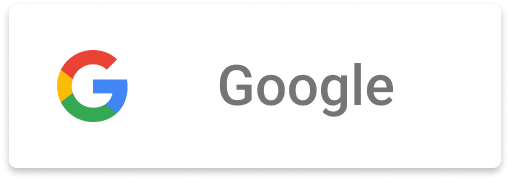
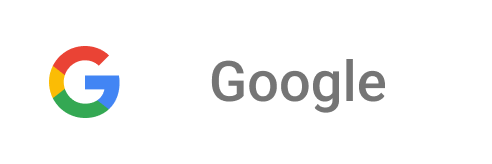
Add login with Microsoft button

Changed region(s): [[0.4268, 0.3354, 0.7927, 0.7012], [0.0, 0.9146, 1.0, 0.9756], [0.0915, 0.2744, 0.2744, 0.7317]]

diff --git a/ui/src/App.tsx b/ui/src/App.tsx
@@ -37,6 +37,7 @@ import {
 import { firebaseConfig } from "./components/firebase-config";
 
 import GoogleLoginButton from "./assets/images/google-login.png";
+import MicrosoftLoginButton from "./assets/images/microsoft-login.png";
 
 import "./assets/css/App.css";
 import SkeletonLoader from "./components/skeleton-loader";
@@ -971,16 +972,25 @@ export default class App extends React.Component<{}, AppState> {
               </h1>
             </div>
             <h2 className="font-dm-sans font-bold text-5xl">Login</h2>
-            <button
-              onClick={this.handleLoginWithGoogle}
-              className="cursor-pointer"
-            >
-              <img
-                className="h-[55px] w-auto"
-                src={GoogleLoginButton}
-                alt="Login with Google"
-              />
-            </button>
+            <div className="flex gap-[40px]">
+              <button onClick={() => {}} className="cursor-pointer">
+                <img
+                  className="h-[55px] w-auto"
+                  src={MicrosoftLoginButton}
+                  alt="Login with Microsoft"
+                />
+              </button>
+              <button
+                onClick={this.handleLoginWithGoogle}
+                className="cursor-pointer"
+              >
+                <img
+                  className="h-[55px] w-auto shadow-[0_2px_4px_rgba(0,0,0,0.25)]"
+                  src={GoogleLoginButton}
+                  alt="Login with Google"
+                />
+              </button>
+            </div>
           </div>
         ) : (
           <div
